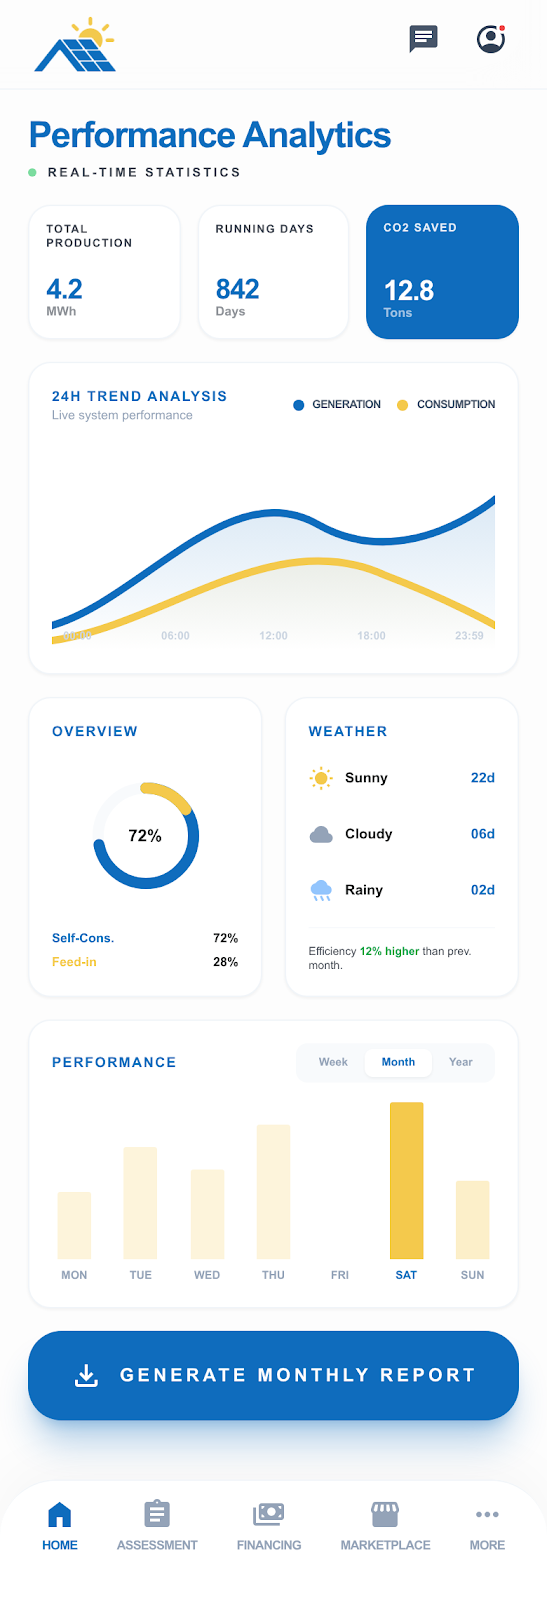
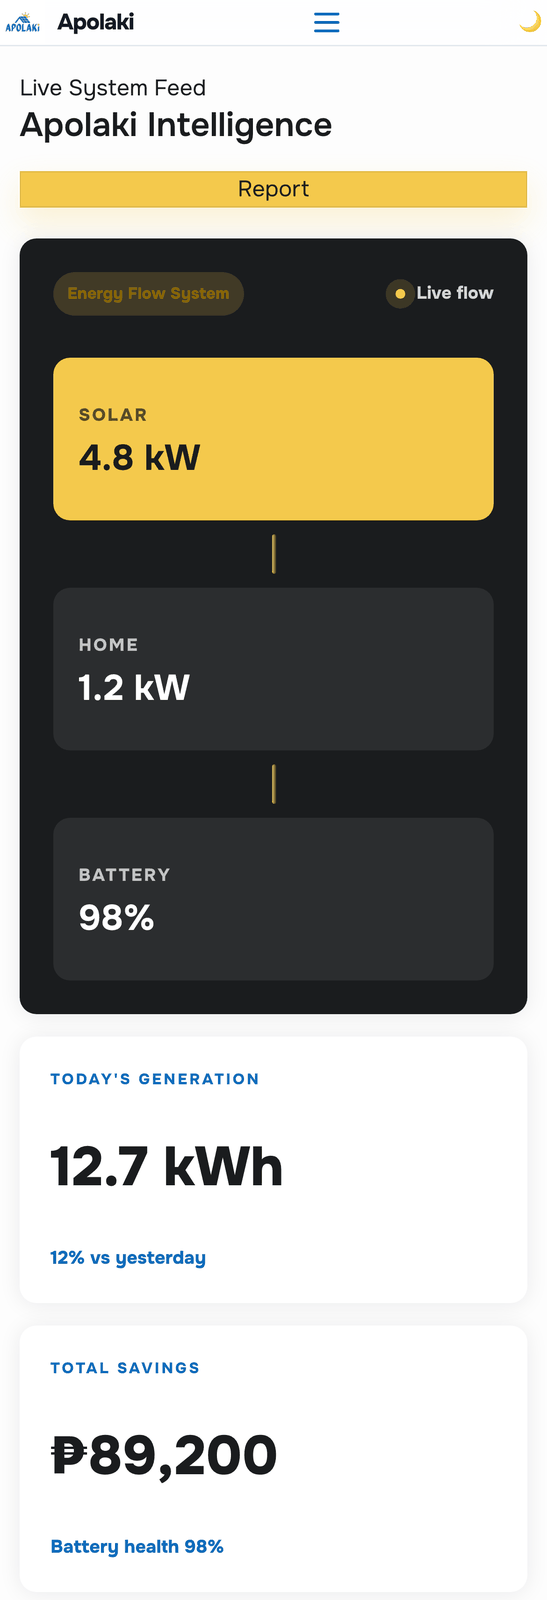
W8 screenshots: updated app in phone mockups
Replace the hero and What-is-Apolaki phone-mockup screens with live
captures of the updated app at apolaki-478302.web.app (390x844 @user):
the logged-in Apolaki Intelligence dashboard (live energy flow, today's
generation, total savings) and the assessment results for a P12,000
bill (P2,851 solar payment, P9,149 monthly savings, 5 kW system).
Same filenames and pixel dimensions (516x1600 / 547x1600) so the CSS
device frames and journey flow-phones are unchanged; PNGs quantized +
zopfli-optimized (150KB->58KB, 160KB->40KB). Alt text updated to match
the new screens.

Claude-Session: https://claude.ai/code/session_01VHmsiGHSRRyWzPMxFCksHG

diff --git a/index.html b/index.html
@@ -127,7 +127,7 @@
         <span><span class="k">Typical payback</span><br><span class="v">3–5 years</span></span>
       </div>
       <div class="device">
-        <div class="device-screen"><img src="/assets/screens/05-monitoring.png" alt="Apolaki app showing real-time solar performance analytics — total production, CO₂ saved, and a 24-hour generation vs consumption trend" width="308" height="640" loading="eager"></div>
+        <div class="device-screen"><img src="/assets/screens/05-monitoring.png" alt="Apolaki app dashboard — live energy flow from a 4.8 kW solar array to home and battery, today's generation, and total savings" width="308" height="640" loading="eager"></div>
       </div>
     </div>
   </div>
@@ -161,7 +161,7 @@
     </div>
     <div class="showcase-media media-glow reveal d1">
       <div class="device tilt">
-        <div class="device-screen"><img src="/assets/screens/03-results.png" alt="Apolaki assessment results — a recommended 24 kW system, estimated cost, monthly comparison vs current bill, and a 14.3-year payback line item" width="308" height="640" loading="lazy"></div>
+        <div class="device-screen"><img src="/assets/screens/03-results.png" alt="Apolaki assessment results — a ₱12,000 monthly bill replaced by a ₱2,851 solar payment, ₱9,149 estimated monthly savings, and a recommended 5 kW system" width="308" height="640" loading="lazy"></div>
       </div>
     </div>
   </div>